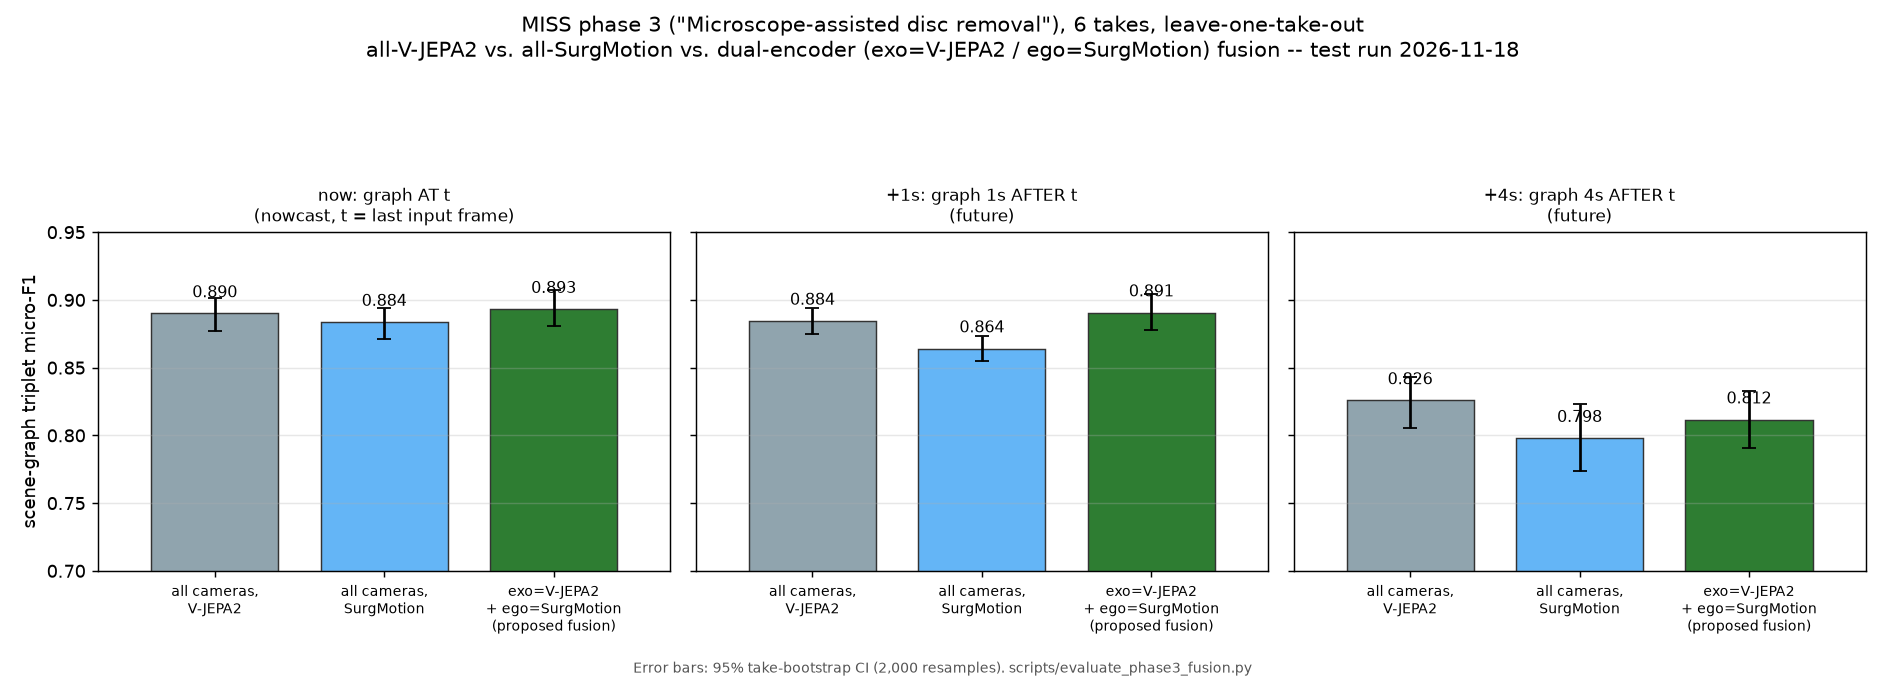
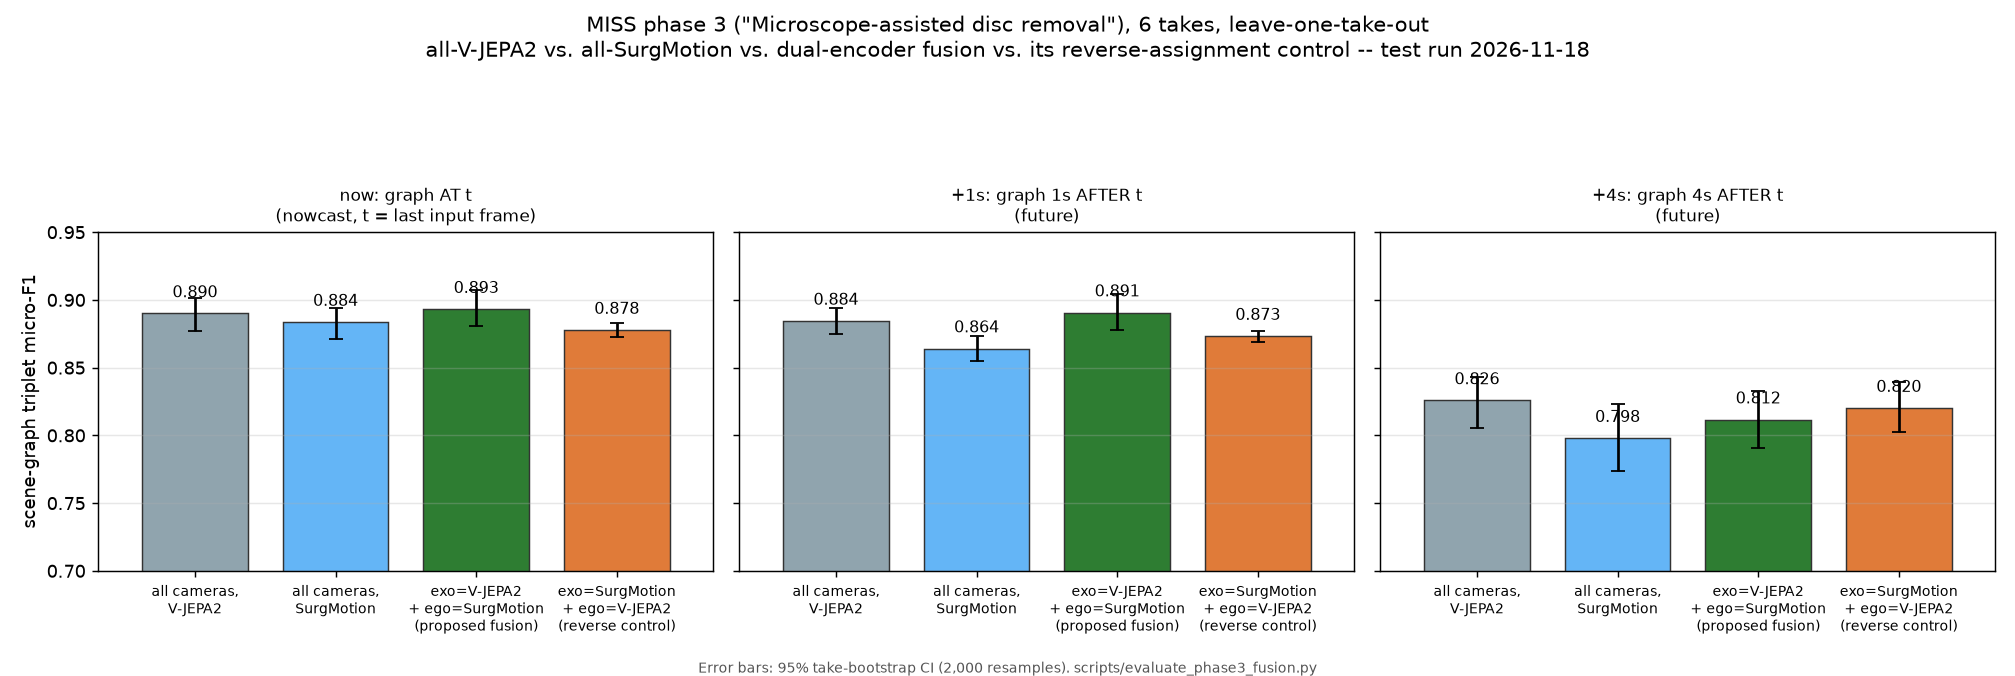
Add reverse_fusion negative control (exo=SurgMotion/ego=V-JEPA2) to the phase-3 dual-encoder test

diff --git a/scripts/make_phase3_fusion_chart.py b/scripts/make_phase3_fusion_chart.py
@@ -21,16 +21,17 @@ BAR_OUT = ROOT / "docs" / "phase3_fusion_2026-11-18.png"
 TIMELINE_OUT = ROOT / "docs" / "phase3_fusion_timeline_2026-11-18.png"
 METRICS_OUT = ROOT / "docs" / "phase3_fusion_metrics_2026-11-18.png"
 
-# The 3 variants the discussion is actually about: single-encoder-for-everything (x2) vs. the
-# proposed exo/ego dual-encoder split. exo_vjepa2 / ego_surgmotion (single-view-only) are weaker
-# reference ablations, reported in the README table but left out of this headline chart.
+# The variants the discussion is actually about: single-encoder-for-everything (x2), the proposed
+# exo/ego dual-encoder split, and its reverse-assignment negative control. exo_vjepa2 / ego_surgmotion
+# (single-view-only) are weaker reference ablations, reported in the README table but left out here.
 LABELS = {
     "all_vjepa2": "all cameras,\nV-JEPA2",
     "all_surgmotion": "all cameras,\nSurgMotion",
     "dual_fusion": "exo=V-JEPA2\n+ ego=SurgMotion\n(proposed fusion)",
+    "reverse_fusion": "exo=SurgMotion\n+ ego=V-JEPA2\n(reverse control)",
 }
 ORDER = list(LABELS)
-COLORS = ["#90a4ae", "#64b5f6", "#2e7d32"]
+COLORS = ["#90a4ae", "#64b5f6", "#2e7d32", "#e07b39"]
 HORIZONS = [0, 1, 4]
 HORIZON_LABELS = {
     0: "now: graph AT t\n(nowcast, t = last input frame)",
@@ -40,8 +41,8 @@ HORIZON_LABELS = {
 
 
 def bar_chart(summary: pd.DataFrame) -> None:
-    fig, axes = plt.subplots(1, 3, figsize=(14.5, 5.2), sharey=True)
-    positions = [0, 0.8, 1.6]
+    fig, axes = plt.subplots(1, 3, figsize=(15.5, 5.2), sharey=True)
+    positions = [i * 0.8 for i in range(len(ORDER))]
     for ax, h in zip(axes, HORIZONS):
         sub = summary[summary.horizon_s == h].set_index("method").loc[ORDER]
         err = [sub.micro_f1 - sub.micro_f1_ci_low, sub.micro_f1_ci_high - sub.micro_f1]
@@ -50,14 +51,14 @@ def bar_chart(summary: pd.DataFrame) -> None:
             ax.text(bar.get_x() + bar.get_width() / 2, value + 0.012, f"{value:.3f}", ha="center", fontsize=9)
         ax.set_xticks(positions)
         ax.set_xticklabels([LABELS[m] for m in ORDER], fontsize=8)
-        ax.set_xlim(-0.55, 2.15)
+        ax.set_xlim(positions[0] - 0.55, positions[-1] + 0.55)
         ax.set_title(HORIZON_LABELS[h], fontsize=9.5)
         ax.set_ylim(0.70, 0.95)
         ax.grid(axis="y", alpha=0.3)
     axes[0].set_ylabel("scene-graph triplet micro-F1")
     fig.suptitle(
         "MISS phase 3 (\"Microscope-assisted disc removal\"), 6 takes, leave-one-take-out\n"
-        "all-V-JEPA2 vs. all-SurgMotion vs. dual-encoder (exo=V-JEPA2 / ego=SurgMotion) fusion -- test run 2026-11-18",
+        "all-V-JEPA2 vs. all-SurgMotion vs. dual-encoder fusion vs. its reverse-assignment control -- test run 2026-11-18",
         fontsize=11.5,
     )
     fig.text(
@@ -86,7 +87,7 @@ def timeline(qual: pd.DataFrame) -> None:
         ax.set_title(f"predicted-graph time = {HORIZON_LABELS[h].splitlines()[0]}", fontsize=9.5, loc="left")
         ax.grid(alpha=0.3)
     axes[-1].set_xlabel("time into MISS/3/take/1 (s) -- x-position = time the predicted scene graph is FOR")
-    axes[0].legend(loc="lower left", fontsize=8, ncol=3)
+    axes[0].legend(loc="lower left", fontsize=7.5, ncol=2)
 
     # Annotate one example clip on the "now" panel to make input-window vs. target-time concrete.
     example = qual[(qual.method == "dual_fusion") & (qual.horizon_s == 0)].sort_values("target_time_s").iloc[10]
@@ -110,21 +111,22 @@ def timeline(qual: pd.DataFrame) -> None:
 
 
 def metrics_chart(summary: pd.DataFrame) -> None:
-    """micro-F1 / macro-F1 / exact-match grouped by metric, 3 methods per group, one panel per horizon."""
+    """micro-F1 / macro-F1 / exact-match grouped by metric, one bar per method, one panel per horizon."""
     metrics = ["micro_f1", "macro_f1", "exact_match"]
     metric_labels = ["micro-F1\n(all triplets)", "macro-F1\n(per-triplet-class avg)", "exact graph\nmatch"]
-    fig, axes = plt.subplots(1, 3, figsize=(14.5, 5.4), sharey=True)
-    group_w, bar_w = 0.75, 0.22
+    n = len(ORDER)
+    bar_w = 0.9 / n
+    fig, axes = plt.subplots(1, 3, figsize=(15.5, 5.4), sharey=True)
     for ax, h in zip(axes, HORIZONS):
         sub = summary[summary.horizon_s == h].set_index("method").loc[ORDER]
         for i, method in enumerate(ORDER):
-            offsets = (i - 1) * bar_w
-            positions = [g * group_w + offsets for g in range(len(metrics))]
+            offset = (i - (n - 1) / 2) * bar_w
+            positions = [g + offset for g in range(len(metrics))]
             values = sub.loc[method, metrics].to_numpy(dtype=float)
             bars = ax.bar(positions, values, width=bar_w * 0.95, color=COLORS[i], edgecolor="#333", linewidth=0.7)
             for bar, value in zip(bars, values):
-                ax.text(bar.get_x() + bar.get_width() / 2, value + 0.015, f"{value:.2f}", ha="center", fontsize=6.8, rotation=90)
-        ax.set_xticks([g * group_w for g in range(len(metrics))])
+                ax.text(bar.get_x() + bar.get_width() / 2, value + 0.015, f"{value:.2f}", ha="center", fontsize=6.5, rotation=90)
+        ax.set_xticks(range(len(metrics)))
         ax.set_xticklabels(metric_labels, fontsize=8)
         ax.set_title(HORIZON_LABELS[h], fontsize=9.5)
         ax.set_ylim(0.0, 1.05)
@@ -134,11 +136,12 @@ def metrics_chart(summary: pd.DataFrame) -> None:
         handles=[plt.Rectangle((0, 0), 1, 1, fc=c, ec="#333") for c in COLORS],
         labels=[LABELS[m].replace("\n", " ") for m in ORDER],
         loc="lower left",
-        fontsize=7.5,
+        fontsize=7,
+        ncol=1,
     )
     fig.suptitle(
         "MISS phase 3, 6 takes, leave-one-take-out -- micro-F1 does not always agree with macro-F1 / exact-match\n"
-        "all-V-JEPA2 vs. all-SurgMotion vs. dual-encoder (exo=V-JEPA2 / ego=SurgMotion) fusion -- test run 2026-11-18",
+        "all-V-JEPA2 vs. all-SurgMotion vs. dual-encoder fusion vs. its reverse-assignment control -- test run 2026-11-18",
         fontsize=11,
     )
     fig.tight_layout(rect=(0, 0.02, 1, 0.86))

diff --git a/scripts/evaluate_phase3_fusion.py b/scripts/evaluate_phase3_fusion.py
@@ -14,10 +14,15 @@ from the clip that just ended, not a future prediction. horizon_s=1 and 4 decode
 `1*15` / `4*15` frames (1s / 4s) *after* `end_frame`, which the model never saw: those are the
 actual future-prediction targets.
 
-Three primary variants compared here, all with the identical Ridge head / split / thresholds:
+Four primary variants compared here, all with the identical Ridge head / split / thresholds:
   all_vjepa2     -- V-JEPA 2 for every camera (exo + ego), the single-encoder baseline
   all_surgmotion -- SurgMotion for every camera (exo + ego), the other single-encoder baseline
-  dual_fusion    -- V-JEPA 2 on exo cameras + SurgMotion on ego cameras, concatenated (proposed idea)
+  dual_fusion    -- V-JEPA 2 on exo cameras + SurgMotion on ego cameras, concatenated (proposed idea:
+                    SurgMotion's surgical-video fine-tuning should help most on close-up egocentric
+                    hand/instrument motion, while general V-JEPA 2 stays fine for wide room views)
+  reverse_fusion -- SurgMotion on exo cameras + V-JEPA 2 on ego cameras (the opposite assignment,
+                    a negative control for the dual_fusion hypothesis: if the "SurgMotion helps ego"
+                    story is right, this should not beat dual_fusion)
 exo_vjepa2 / ego_surgmotion (single-view-only) are kept as weaker reference ablations.
 """
 
@@ -133,6 +138,7 @@ def load_phase3():
         "all_vjepa2": np.concatenate([vecs["exo_vjepa2"], vecs["ego_vjepa2"]], axis=1),
         "all_surgmotion": np.concatenate([vecs["exo_surgmotion"], vecs["ego_surgmotion"]], axis=1),
         "dual_fusion": np.concatenate([vecs["exo_vjepa2"], vecs["ego_surgmotion"]], axis=1),
+        "reverse_fusion": np.concatenate([vecs["exo_surgmotion"], vecs["ego_vjepa2"]], axis=1),
     }
     return meta, features, labels, coverage
 
@@ -236,6 +242,9 @@ def evaluate() -> pd.DataFrame:
                     "all_vjepa2": "concat(V-JEPA 2 exo mean, V-JEPA 2 ego mean) -- single-encoder baseline",
                     "all_surgmotion": "concat(SurgMotion exo mean, SurgMotion ego mean) -- single-encoder baseline",
                     "dual_fusion": "concat(V-JEPA 2 exo mean, SurgMotion ego mean) -- the proposed dual-encoder design",
+                    "reverse_fusion": (
+                        "concat(SurgMotion exo mean, V-JEPA 2 ego mean) -- opposite assignment, negative control"
+                    ),
                 },
             ),
             indent=2,

diff --git a/README.md b/README.md
@@ -171,22 +171,25 @@ Reports: [MISS](notebooks/05_vjepa_feasibility_MISS.ipynb) · [Ultrasound](noteb
 
 ## Dual-encoder exo/ego fusion test (MISS phase 3)
 
-**Results** (micro-F1 over all GT triplets, mean ± 95% take-bootstrap CI from 2,000 resamples, **all 6 MISS/phase-3 takes**, leave-one-take-out — not just take 1; `outputs/feasibility/MISS_phase3_fusion/`). Three directly-comparable variants, same head/split/thresholds, differing only in which encoder sees which camera:
+**Results** (micro-F1 over all GT triplets, mean ± 95% take-bootstrap CI from 2,000 resamples, **all 6 MISS/phase-3 takes**, leave-one-take-out — not just take 1; `outputs/feasibility/MISS_phase3_fusion/`). Four directly-comparable variants, same head/split/thresholds, differing only in which encoder sees which camera:
 
 | Variant | now: graph AT t | +1s: graph AFTER t | +4s: graph AFTER t |
 |---|---|---|---|
 | `all_vjepa2` — V-JEPA 2 for every camera (exo + ego) | 0.890 [0.877, 0.901] | 0.884 [0.875, 0.894] | **0.826 [0.805, 0.843]** |
 | `all_surgmotion` — SurgMotion for every camera (exo + ego) | 0.884 [0.871, 0.894] | 0.864 [0.855, 0.873] | 0.798 [0.774, 0.823] |
 | **`dual_fusion` — V-JEPA 2 on exo + SurgMotion on ego (proposed)** | **0.893 [0.881, 0.907]** | **0.891 [0.878, 0.904]** | 0.812 [0.790, 0.833] |
+| `reverse_fusion` — SurgMotion on exo + V-JEPA 2 on ego (negative control) | 0.878 [0.873, 0.883] | 0.873 [0.869, 0.877] | 0.820 [0.802, 0.839] |
+
+`reverse_fusion` tests the opposite camera/encoder assignment. It is clearly worse than `dual_fusion` at `t` and +1s (0.878/0.873 vs. 0.893/0.891), supporting the intuition that SurgMotion's surgical fine-tuning is better spent on the close-up egocentric views, not the wide exocentric ones; at +4s it lands between `all_vjepa2` and `dual_fusion`, so the gap is not a flat offset in every setting.
 
 (Single-view-only ablations, for reference: `exo_vjepa2` 0.888 / 0.885 / 0.817; `ego_surgmotion` 0.886 / 0.871 / 0.813 — both weaker than any "both views" variant above at `t`/+1s.)
 
-![MISS phase 3: all-V-JEPA2 vs. all-SurgMotion vs. dual-encoder fusion, 2026-11-18](docs/phase3_fusion_2026-11-18.png)
+![MISS phase 3: all-V-JEPA2 vs. all-SurgMotion vs. dual-encoder fusion vs. reverse control, 2026-11-18](docs/phase3_fusion_2026-11-18.png)
 
 *Figure: scene-graph triplet micro-F1 (95% take-bootstrap CI), all 6 MISS-phase-3 takes, leave-one-take-out, test run **2026-11-18**. `scripts/make_phase3_fusion_chart.py`.*
 
-* **Current graph and +1s:** `all_surgmotion` (SurgMotion on every camera) is consistently the **weakest** of the three — using SurgMotion for the wide exocentric views does not help. The proposed `dual_fusion` (V-JEPA 2 exo / SurgMotion ego) is the best of the three at both horizons, by +0.3 to +2.7 micro-F1 points — small but in the direction the fusion hypothesis predicts.
-* **+4s:** `all_vjepa2` (plain V-JEPA 2 everywhere) is best; `dual_fusion` is statistically tied with `all_surgmotion` for worst. Splitting encoders by view does not help longer-horizon forecasting in this test.
+* **Current graph and +1s:** `all_surgmotion` (SurgMotion on every camera) is consistently the **weakest** — using SurgMotion for the wide exocentric views does not help. `dual_fusion` is the best at both horizons; `reverse_fusion` (same two encoders, swapped) is the worst or near-worst, which is the expected direction if SurgMotion's benefit really is specific to close-up egocentric motion.
+* **+4s:** `all_vjepa2` (plain V-JEPA 2 everywhere) is best; `dual_fusion` and `reverse_fusion` are both below it and close to each other. Splitting encoders by view does not help longer-horizon forecasting in this test, regardless of assignment direction.
 * **CIs still overlap substantially** between `all_vjepa2` and `dual_fusion` at every horizon, so "dual_fusion wins at t/+1s" is a lean, not a settled result, even using all 6 takes.
 
 | input video | predicted-graph time | GT triplets | predicted triplets | sample F1 |
@@ -199,10 +202,10 @@ The model over-predicts specific instrument-handling triplets (extra, rarely mis
 
 ![MISS/3/take/1 per-clip prediction quality over time, 2026-11-18](docs/phase3_fusion_timeline_2026-11-18.png)
 
-*Figure: per-clip sample-F1 (`2·|GT∩pred| / (|GT|+|pred|)`) over time for the 3 primary variants, one row per horizon; x-axis = the time the predicted graph is **for** (not the input time). The annotated example shows one clip's input window and its nowcast target explicitly. `scripts/make_phase3_fusion_chart.py`.*
+*Figure: per-clip sample-F1 (`2·|GT∩pred| / (|GT|+|pred|)`) over time for the 4 variants, one row per horizon; x-axis = the time the predicted graph is **for** (not the input time). The annotated example shows one clip's input window and its nowcast target explicitly. `scripts/make_phase3_fusion_chart.py`.*
 
-* Quality dips together across all 3 variants around 8-15s and again sharply around 50-57s — a shared hard segment (busy instrument exchange), not a method-specific failure.
-* The 3 lines mostly move together; `dual_fusion` (green) is rarely far from the other two on any single clip, consistent with the small, CI-overlapping aggregate gap above — this is not a case where fusion rescues otherwise-bad clips.
+* Quality dips together across all 4 variants around 8-15s and again sharply around 50-57s — a shared hard segment (busy instrument exchange), not a method-specific failure.
+* The 4 lines mostly move together; `dual_fusion` (green) is rarely far from the others on any single clip, consistent with the small, CI-overlapping aggregate gap above — this is not a case where fusion rescues otherwise-bad clips.
 * This is still **current/near-future scene-graph triplet-set decoding** (same metric as the main feasibility protocol), not the OR-Action paper's dense temporal action-segmentation benchmark (frame accuracy, Edit Score, segmental F1 over 78 role-action classes) — that benchmark does not exist for EgoExOR in this repo yet (see next steps).
 
 | | now (macro-F1 / exact-match) | +1s (macro-F1 / exact-match) | +4s (macro-F1 / exact-match) |
@@ -210,10 +213,11 @@ The model over-predicts specific instrument-handling triplets (extra, rarely mis
 | `all_vjepa2` | 0.520 / 0.260 | **0.514** / 0.225 | **0.439** / **0.091** |
 | `all_surgmotion` | 0.516 / **0.268** | 0.484 / 0.194 | 0.409 / 0.073 |
 | `dual_fusion` | **0.523** / 0.263 | 0.513 / **0.265** | 0.432 / 0.061 |
+| `reverse_fusion` | 0.515 / 0.230 | 0.508 / 0.192 | 0.428 / 0.073 |
 
 ![MISS phase 3: micro-F1 vs. macro-F1 vs. exact-match, 2026-11-18](docs/phase3_fusion_metrics_2026-11-18.png)
 
-*Figure: same 3 variants/horizons as above, 3 metrics side by side. The rankings don't always agree (e.g. at `t`, `all_surgmotion` has the best exact-match but the worst micro-F1) — `scripts/make_phase3_fusion_chart.py`.*
+*Figure: same 4 variants/horizons as above, 3 metrics side by side. The rankings don't always agree (e.g. at `t`, `all_surgmotion` has the best exact-match but the worst micro-F1) — `scripts/make_phase3_fusion_chart.py`.*
 
 ## Results summary (tests run 2026-11-04)
 
